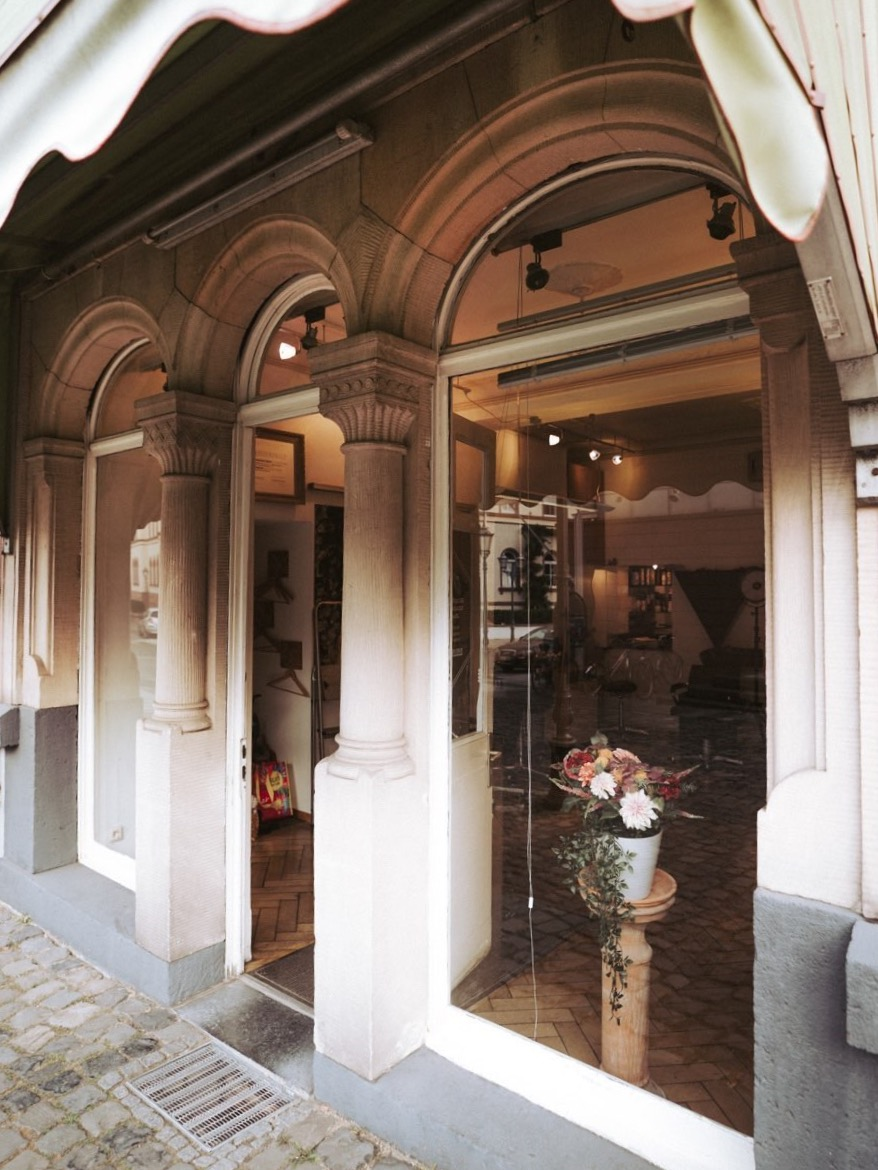
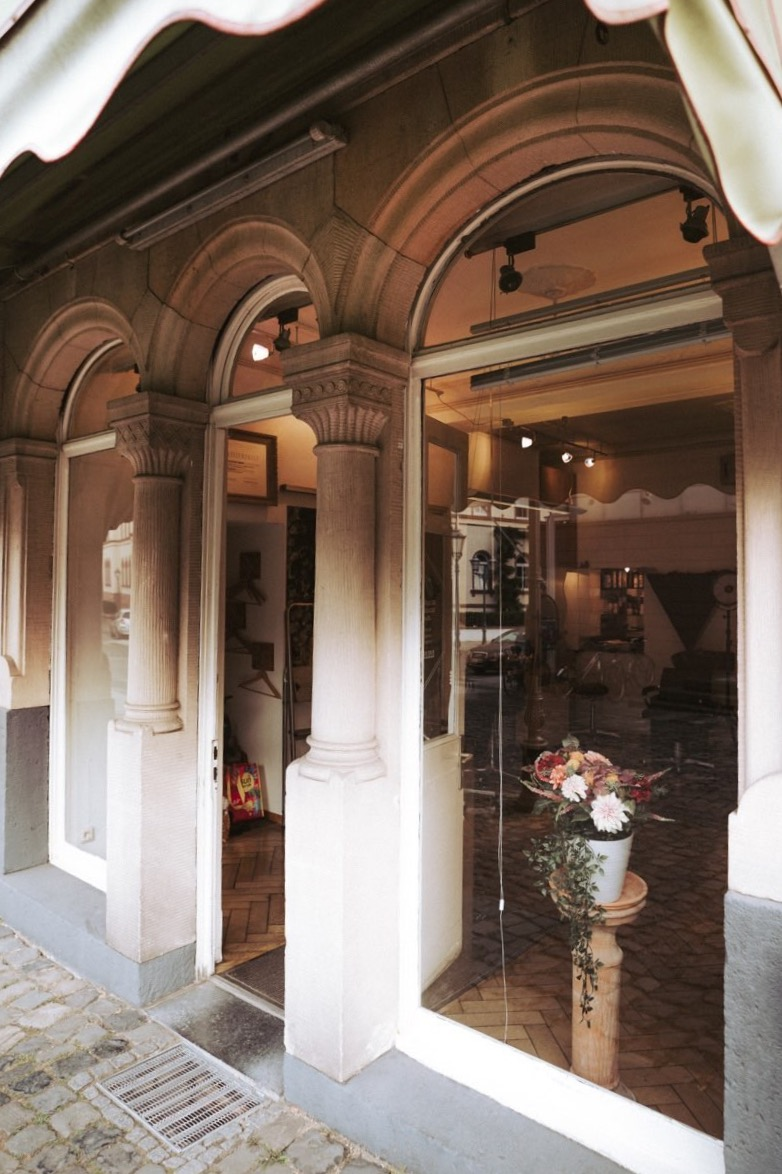
Fixed overflow of images and reformated Vorstellung.

diff --git a/index.html b/index.html
@@ -26,12 +26,10 @@
 
 <section id="vorstellung">
   <h1 class="Header">Vorstellung</h1>
-
-  <div class="FlexContainer">
-    <img src="images/VorstellungAussen.jpeg" alt="Außenansicht Kopfarbeit"/>
-    <img src="images/VorstellungMadeleine.jpeg" alt="Madeleine Jaeger"/>
+  <div class="FlexContainerNoWrap">
+    <img class="ImagePair3x2" src="images/VorstellungAussen.jpeg" alt="Außenansicht Kopfarbeit"/>
+    <img class="ImagePair3x2" src="images/VorstellungMadeleine.jpeg" alt="Madeleine Jaeger"/>
   </div>
-
   <h3 class="SubHeader">Herzlich Willkommen</h3>
   <p>
     ... bei Ihrem charmanten, kleinen Friseursalon am Bad Homburger Schlosspark.
@@ -64,12 +62,9 @@
 
 <hr>
 
-<!-- TODO: Drei Gruppen implizit einfügen. Schnitte, Färben, Styling. -->
 <section id="angebot">
   <h1 class="Header">Angebot</h1>
-
   <img src="images/AngebotMadeleine.jpeg" alt="Produkt Madeleine Jaeger"/>
-
   <h3 class="SubHeader">Unverbindliche Preisliste</h3>
   <table>
     <thead>
@@ -173,17 +168,13 @@
   <a class="FlexContainer" href="https://www.labiosthetique.de?salon=badhomburg-0089063" target="_blank">
     <img class="LaBiosthetiqueShop" src="images/AngebotLaBiosthetiqueWebsite.jpeg" alt="Picture of La Biosthetique Website.">
   </a>
-
 </section>
 
 <hr>
 
-<!-- TODO: Grid-Layout einfügen für Daten, QR und Tabelle. -->
 <section id="kontakt">
   <h1 class="Header">Kontakt</h1>
-
   <img src="images/KontaktMadeleine.jpeg" alt="Kontakt Madeleine Jaeger"/>
-
   <h3 class="SubHeader">Kontaktdaten</h3>
   <div class="GridContainer2x2">
     <p class="GridElement1x2">
@@ -199,7 +190,6 @@
     </p>
     <img class="QrCode GridElement1x1" src="images/KontaktVCardKopfarbeit.png" alt="VCard of Kopfarbeit as QrCode."/>
   </div>
-
   <h3 class="SubHeader">Anfahrt</h3>
   <p>
     Sollten Sie einen Parkplatz benötigen, dann empfehlen wir Ihnen die kostenpflichtige Schlossgarage anzufahren.
@@ -212,7 +202,6 @@
           referrerpolicy="no-referrer"
           sandbox="allow-scripts allow-same-origin">
   </iframe>
-
   <h3 class="SubHeader">Öffnungszeiten</h3>
   <table>
     <tr>
@@ -270,7 +259,7 @@
   </p>
 </footer>
 
-<!-- Scroll to Top Button -->
+<!-- Scroll to top button. -->
 <button id="scrollTopBtn" onclick="scrollToTop()">Anfang</button>
 
 <script src="scripts/script.js"></script>

diff --git a/styles/styles.css b/styles/styles.css
@@ -42,7 +42,7 @@ header {
 header img {
     width: 30%;
     max-width: 300px;
-    min-width: 200px;
+    min-width: 225px;
     position: static;
 }
 
@@ -56,7 +56,7 @@ hr {
 
 img {
     width: 100%;
-    max-width: 250px;
+    max-width: 225px;
     height: auto;
 }
 
@@ -141,6 +141,12 @@ table {
     flex-wrap: wrap;
 }
 
+.FlexContainerNoWrap {
+    display: flex;
+    justify-content: normal;
+    width: 100%;
+}
+
 .GridContainer2x2 {
     display: grid;
     grid-template-rows: 1fr 2fr;
@@ -162,9 +168,14 @@ table {
     margin-block-end: 1.5em;
 }
 
+.ImagePair3x2 {
+    width: 50%;
+}
+
 .LaBiosthetiqueShop {
     border: 10px inset;
-    margin: 1em 0em;
+    box-sizing: border-box;
+    margin: 1em 0;
     width: 100%;
     aspect-ratio: 4/3;
     max-width: 800px;
@@ -173,7 +184,7 @@ table {
 .LageKarte {
     border: 2px inset;
     margin: 2em 0;
-    width: 100%;
+    width: calc(100% - 2*2px); /* Subtracting the border. */
     aspect-ratio: 4/3;
     max-width: 800px;
 }
